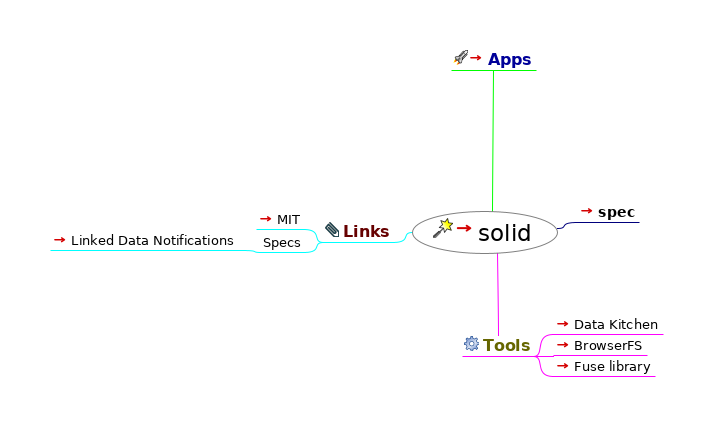
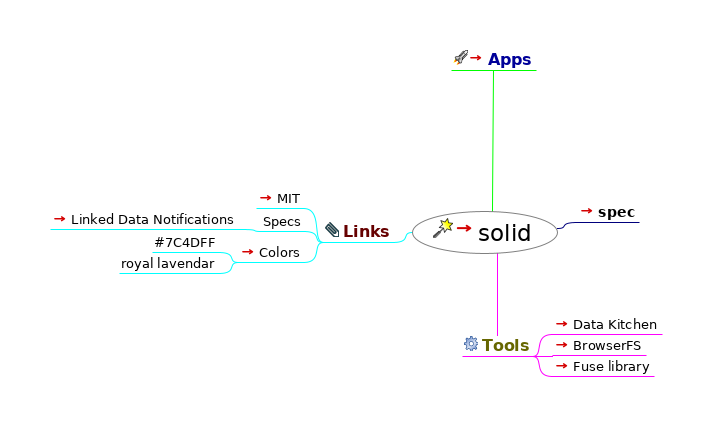
add colors

diff --git a/index.html b/index.html
@@ -26,15 +26,18 @@
           --></script></head><body><h1>solid</h1><div style="width:96%;  padding:2%;  margin-bottom:10px;  border: 0px;  text-align:center;  vertical-align:center;"><img src="index.html_files/image.png" style="margin-bottom:10px; &#9;border: 0px; &#9;text-align:center; &#9;vertical-align:center;" alt="Imagemap" usemap="#fm_imagemap" /></div><map name="fm_imagemap" id="fm_imagemap"><area shape="rect" href="../tech/index.html" alt="solid" title="solid" coords="412,211,558,254" />
 <area shape="rect" href="https://solidapps.org/" alt="Apps" title="Apps" coords="451,50,536,70" />
 <area shape="rect" href="spec/index.html" alt="spec" title="spec" coords="577,203,639,222" />
-<area shape="rect" href="#FMID_1810859973FM" alt="Tools" title="Tools" coords="462,336,534,356" />
-<area shape="rect" href="https://github.com/solid/data-kitchen" alt="Data Kitchen" title="Data Kitchen" coords="553,316,663,334" />
-<area shape="rect" href="https://github.com/jvilk/BrowserFS" alt="BrowserFS" title="BrowserFS" coords="553,337,647,355" />
-<area shape="rect" href="https://github.com/fuse-friends/fuse-native" alt="Fuse library" title="Fuse library" coords="553,358,655,376" />
+<area shape="rect" href="#FMID_1810859973FM" alt="Tools" title="Tools" coords="462,336,533,356" />
+<area shape="rect" href="https://github.com/solid/data-kitchen" alt="Data Kitchen" title="Data Kitchen" coords="552,316,662,334" />
+<area shape="rect" href="https://github.com/jvilk/BrowserFS" alt="BrowserFS" title="BrowserFS" coords="552,337,646,355" />
+<area shape="rect" href="https://github.com/fuse-friends/fuse-native" alt="Fuse library" title="Fuse library" coords="552,358,654,376" />
 <area shape="rect" href="#FMID_777477932FM" alt="Links" title="Links" coords="323,222,393,242" />
-<area shape="rect" href="https://solid.mit.edu" alt="MIT" title="MIT" coords="256,211,304,229" />
-<area shape="rect" href="#FMID_1604622862FM" alt="Specs" title="Specs" coords="261,234,304,252" />
-<area shape="rect" href="https://www.w3.org/TR/ldn/" alt="Linked Data Notifications" title="Linked Data Notifications" coords="50,232,242,250" />
+<area shape="rect" href="https://solid.mit.edu" alt="MIT" title="MIT" coords="256,190,304,208" />
+<area shape="rect" href="#FMID_1604622862FM" alt="Specs" title="Specs" coords="261,213,304,231" />
+<area shape="rect" href="https://www.w3.org/TR/ldn/" alt="Linked Data Notifications" title="Linked Data Notifications" coords="50,211,242,229" />
+<area shape="rect" href="https://design.inrupt.com/atomic-core/?cat=Core#Colors" alt="Colors" title="Colors" coords="238,244,304,262" />
+<area shape="rect" href="#FMID_1864362129FM" alt="#7C4DFF" title="#7C4DFF" coords="152,234,219,252" />
+<area shape="rect" href="#FMID_1993946970FM" alt="royal lavendar" title="royal lavendar" coords="119,255,219,273" />
 </map>
 
-<div class="node"><img src="index.html_files/hide.png" class="hideshow" alt="hide" onClick="toggle(&quot;N65543&quot;)" id="imgN65543" /><img src="index.html_files/icons/wizard.svg" alt="wizard" /> <a id="FMID_237352286FM" /><div class="nodecontent" style="color:#000000;font-size:150%;"><a href="../tech/index.html">solid</a> <a href="../tech/index.html"><img src="index.html_files/ilink.png" alt="User Link" style="border-width:0" /></a></div><div class="content" id="N65543"><div class="node"><img src="index.html_files/leaf.png" class="hideshow" alt="leaf" /><img src="index.html_files/icons/launch.svg" alt="launch" /> <a id="FMID_527312312FM" /><div class="nodecontent" style="color:#000099;font-size:100%;font-weight:bold;"><a href="https://solidapps.org/">Apps</a> <a href="https://solidapps.org/"><img src="index.html_files/ilink.png" alt="User Link" style="border-width:0" /></a></div></div><div class="node"><img src="index.html_files/leaf.png" class="hideshow" alt="leaf" /><a id="FMID_45632273FM" /><div class="nodecontent" style="color:#000000;font-size:92%;font-weight:bold;"><a href="spec/index.html">spec</a> <a href="spec/index.html"><img src="index.html_files/ilink.png" alt="User Link" style="border-width:0" /></a></div></div><div class="node"><img src="index.html_files/hide.png" class="hideshow" alt="hide" onClick="toggle(&quot;N66528&quot;)" id="imgN66528" /><img src="index.html_files/icons/executable.svg" alt="executable" /> <a id="FMID_1810859973FM" /><div class="nodecontent" style="color:#666600;font-size:100%;font-weight:bold;">Tools</div><div class="content" id="N66528"><div class="node"><img src="index.html_files/leaf.png" class="hideshow" alt="leaf" /><a id="FMID_464490085FM" /><div class="nodecontent" style="color:#000000;font-size:83%;"><a href="https://github.com/solid/data-kitchen">Data Kitchen</a> <a href="https://github.com/solid/data-kitchen"><img src="index.html_files/ilink.png" alt="User Link" style="border-width:0" /></a></div></div><div class="node"><img src="index.html_files/leaf.png" class="hideshow" alt="leaf" /><a id="FMID_254470917FM" /><div class="nodecontent" style="color:#000000;font-size:83%;"><a href="https://github.com/jvilk/BrowserFS">BrowserFS</a> <a href="https://github.com/jvilk/BrowserFS"><img src="index.html_files/ilink.png" alt="User Link" style="border-width:0" /></a></div></div><div class="node"><img src="index.html_files/leaf.png" class="hideshow" alt="leaf" /><a id="FMID_845285837FM" /><div class="nodecontent" style="color:#000000;font-size:83%;"><a href="https://github.com/fuse-friends/fuse-native">Fuse library</a> <a href="https://github.com/fuse-friends/fuse-native"><img src="index.html_files/ilink.png" alt="User Link" style="border-width:0" /></a></div></div></div></div><div class="node"><img src="index.html_files/hide.png" class="hideshow" alt="hide" onClick="toggle(&quot;N66683&quot;)" id="imgN66683" /><img src="index.html_files/icons/attach.svg" alt="attach" /> <a id="FMID_777477932FM" /><div class="nodecontent" style="color:#660000;font-size:100%;font-weight:bold;">Links</div><div class="content" id="N66683"><div class="node"><img src="index.html_files/leaf.png" class="hideshow" alt="leaf" /><a id="FMID_671925292FM" /><div class="nodecontent" style="color:#000000;font-size:83%;"><a href="https://solid.mit.edu">MIT</a> <a href="https://solid.mit.edu"><img src="index.html_files/ilink.png" alt="User Link" style="border-width:0" /></a></div></div><div class="node"><img src="index.html_files/hide.png" class="hideshow" alt="hide" onClick="toggle(&quot;N66761&quot;)" id="imgN66761" /><a id="FMID_1604622862FM" /><div class="nodecontent" style="color:#000000;font-size:83%;">Specs</div><div class="content" id="N66761"><div class="node"><img src="index.html_files/leaf.png" class="hideshow" alt="leaf" /><a id="FMID_1990139043FM" /><div class="nodecontent" style="color:#000000;font-size:83%;"><a href="https://www.w3.org/TR/ldn/">Linked Data Notifications</a> <a href="https://www.w3.org/TR/ldn/"><img src="index.html_files/ilink.png" alt="User Link" style="border-width:0" /></a></div></div></div></div></div></div></div></div>
+<div class="node"><img src="index.html_files/hide.png" class="hideshow" alt="hide" onClick="toggle(&quot;N65543&quot;)" id="imgN65543" /><img src="index.html_files/icons/wizard.svg" alt="wizard" /> <a id="FMID_237352286FM" /><div class="nodecontent" style="color:#000000;font-size:150%;"><a href="../tech/index.html">solid</a> <a href="../tech/index.html"><img src="index.html_files/ilink.png" alt="User Link" style="border-width:0" /></a></div><div class="content" id="N65543"><div class="node"><img src="index.html_files/leaf.png" class="hideshow" alt="leaf" /><img src="index.html_files/icons/launch.svg" alt="launch" /> <a id="FMID_527312312FM" /><div class="nodecontent" style="color:#000099;font-size:100%;font-weight:bold;"><a href="https://solidapps.org/">Apps</a> <a href="https://solidapps.org/"><img src="index.html_files/ilink.png" alt="User Link" style="border-width:0" /></a></div></div><div class="node"><img src="index.html_files/leaf.png" class="hideshow" alt="leaf" /><a id="FMID_45632273FM" /><div class="nodecontent" style="color:#000000;font-size:92%;font-weight:bold;"><a href="spec/index.html">spec</a> <a href="spec/index.html"><img src="index.html_files/ilink.png" alt="User Link" style="border-width:0" /></a></div></div><div class="node"><img src="index.html_files/hide.png" class="hideshow" alt="hide" onClick="toggle(&quot;N66528&quot;)" id="imgN66528" /><img src="index.html_files/icons/executable.svg" alt="executable" /> <a id="FMID_1810859973FM" /><div class="nodecontent" style="color:#666600;font-size:100%;font-weight:bold;">Tools</div><div class="content" id="N66528"><div class="node"><img src="index.html_files/leaf.png" class="hideshow" alt="leaf" /><a id="FMID_464490085FM" /><div class="nodecontent" style="color:#000000;font-size:83%;"><a href="https://github.com/solid/data-kitchen">Data Kitchen</a> <a href="https://github.com/solid/data-kitchen"><img src="index.html_files/ilink.png" alt="User Link" style="border-width:0" /></a></div></div><div class="node"><img src="index.html_files/leaf.png" class="hideshow" alt="leaf" /><a id="FMID_254470917FM" /><div class="nodecontent" style="color:#000000;font-size:83%;"><a href="https://github.com/jvilk/BrowserFS">BrowserFS</a> <a href="https://github.com/jvilk/BrowserFS"><img src="index.html_files/ilink.png" alt="User Link" style="border-width:0" /></a></div></div><div class="node"><img src="index.html_files/leaf.png" class="hideshow" alt="leaf" /><a id="FMID_845285837FM" /><div class="nodecontent" style="color:#000000;font-size:83%;"><a href="https://github.com/fuse-friends/fuse-native">Fuse library</a> <a href="https://github.com/fuse-friends/fuse-native"><img src="index.html_files/ilink.png" alt="User Link" style="border-width:0" /></a></div></div></div></div><div class="node"><img src="index.html_files/hide.png" class="hideshow" alt="hide" onClick="toggle(&quot;N66683&quot;)" id="imgN66683" /><img src="index.html_files/icons/attach.svg" alt="attach" /> <a id="FMID_777477932FM" /><div class="nodecontent" style="color:#660000;font-size:100%;font-weight:bold;">Links</div><div class="content" id="N66683"><div class="node"><img src="index.html_files/leaf.png" class="hideshow" alt="leaf" /><a id="FMID_671925292FM" /><div class="nodecontent" style="color:#000000;font-size:83%;"><a href="https://solid.mit.edu">MIT</a> <a href="https://solid.mit.edu"><img src="index.html_files/ilink.png" alt="User Link" style="border-width:0" /></a></div></div><div class="node"><img src="index.html_files/hide.png" class="hideshow" alt="hide" onClick="toggle(&quot;N66761&quot;)" id="imgN66761" /><a id="FMID_1604622862FM" /><div class="nodecontent" style="color:#000000;font-size:83%;">Specs</div><div class="content" id="N66761"><div class="node"><img src="index.html_files/leaf.png" class="hideshow" alt="leaf" /><a id="FMID_1990139043FM" /><div class="nodecontent" style="color:#000000;font-size:83%;"><a href="https://www.w3.org/TR/ldn/">Linked Data Notifications</a> <a href="https://www.w3.org/TR/ldn/"><img src="index.html_files/ilink.png" alt="User Link" style="border-width:0" /></a></div></div></div></div><div class="node"><img src="index.html_files/hide.png" class="hideshow" alt="hide" onClick="toggle(&quot;N66834&quot;)" id="imgN66834" /><a id="FMID_960031878FM" /><div class="nodecontent" style="color:#000000;font-size:83%;"><a href="https://design.inrupt.com/atomic-core/?cat=Core#Colors">Colors</a> <a href="https://design.inrupt.com/atomic-core/?cat=Core#Colors"><img src="index.html_files/ilink.png" alt="User Link" style="border-width:0" /></a></div><div class="content" id="N66834"><div class="node"><img src="index.html_files/leaf.png" class="hideshow" alt="leaf" /><a id="FMID_1864362129FM" /><div class="nodecontent" style="color:#000000;font-size:83%;">#7C4DFF</div></div><div class="node"><img src="index.html_files/leaf.png" class="hideshow" alt="leaf" /><a id="FMID_1993946970FM" /><div class="nodecontent" style="color:#000000;font-size:83%;">royal lavendar</div></div></div></div></div></div></div></div>
 </body></html>

diff --git a/index.mm b/index.mm
@@ -90,6 +90,10 @@
 <node TEXT="Specs" ID="ID_1604622862" CREATED="1574031057044" MODIFIED="1574031060459">
 <node TEXT="Linked Data Notifications" ID="ID_1990139043" CREATED="1574031062993" MODIFIED="1574031073388" LINK="https://www.w3.org/TR/ldn/"/>
 </node>
+<node TEXT="Colors" ID="ID_960031878" CREATED="1577179087843" MODIFIED="1577179091178" LINK="https://design.inrupt.com/atomic-core/?cat=Core#Colors">
+<node TEXT="#7C4DFF" ID="ID_1864362129" CREATED="1577177083068" MODIFIED="1577177083068"/>
+<node TEXT="royal lavendar" ID="ID_1993946970" CREATED="1577177086745" MODIFIED="1577177090171"/>
+</node>
 </node>
 </node>
 </map>
